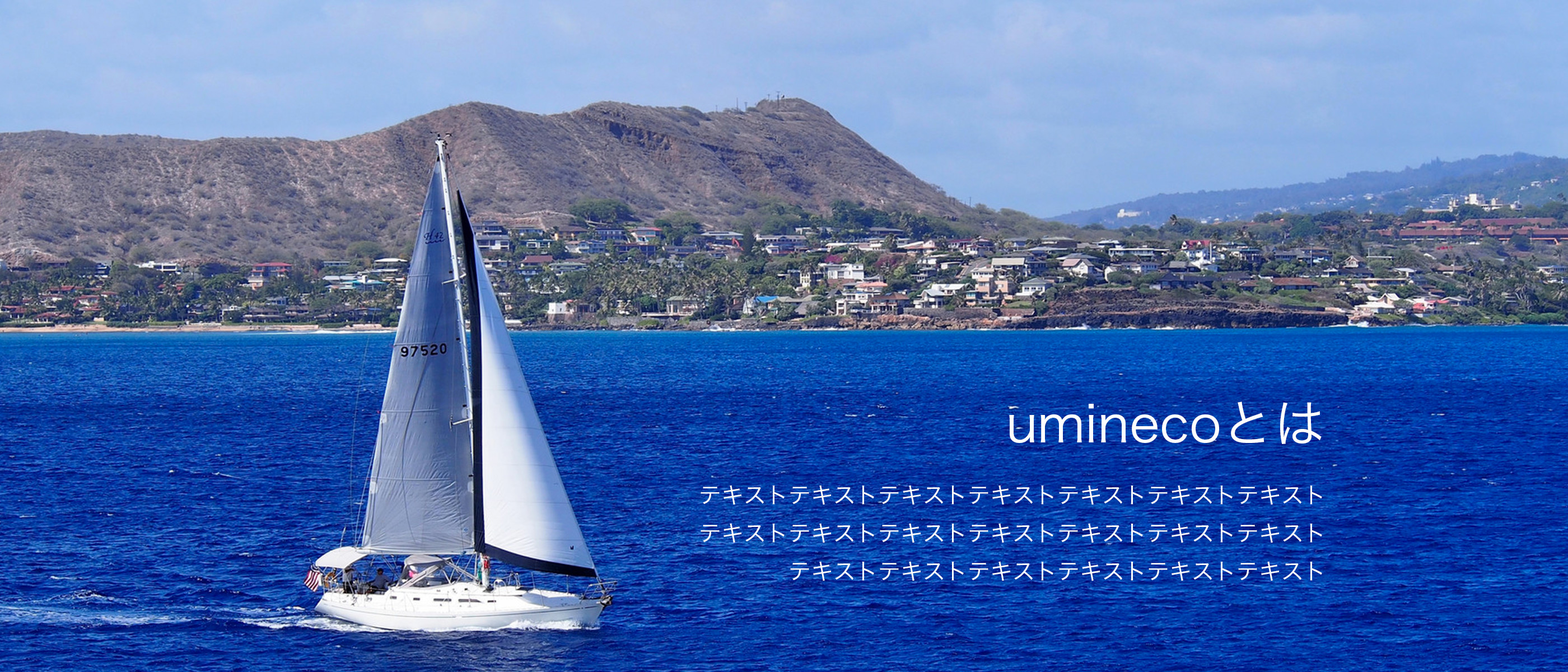
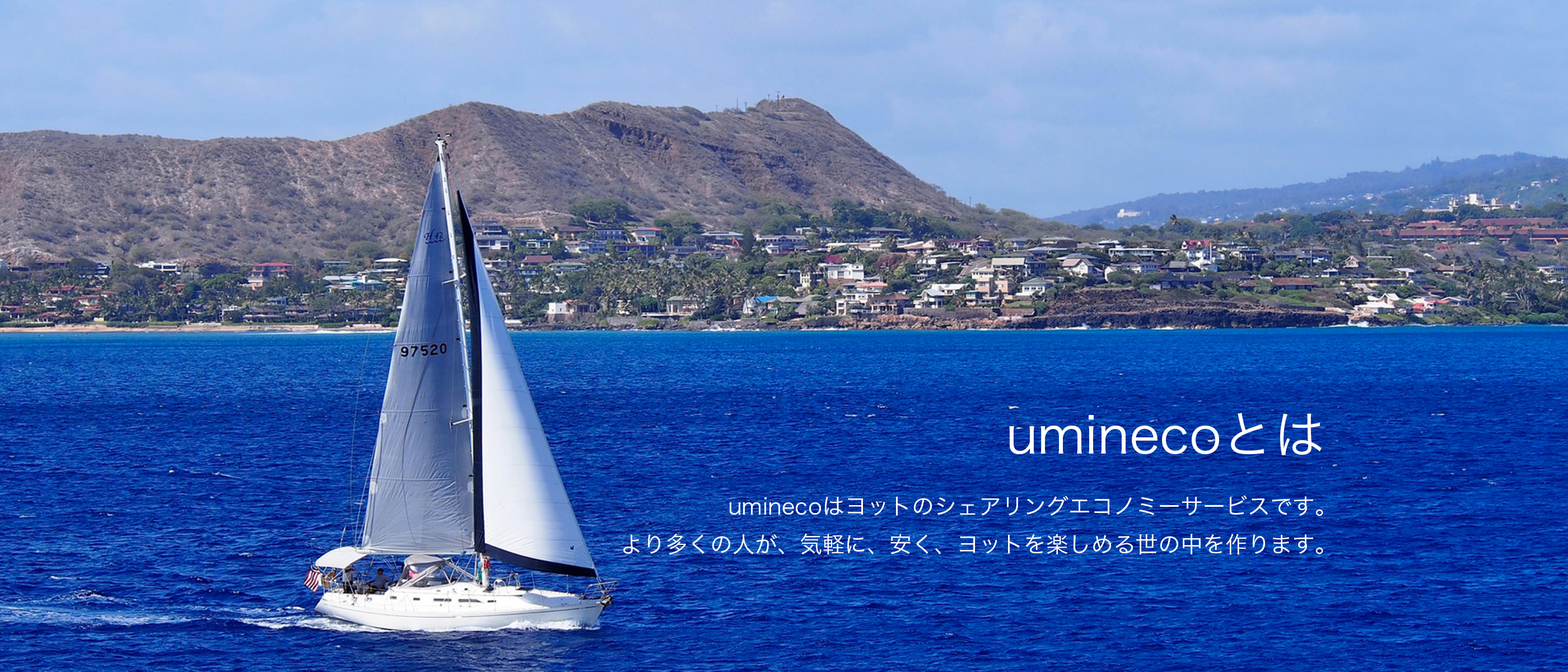
aboutページテキスト流し込み

Changed region(s): [[0.4039, 0.7092, 0.8389, 0.8633], [0.6214, 0.5858, 0.8389, 0.6783]]

diff --git a/frontend/css/object/project/_sp_event.scss b/frontend/css/object/project/_sp_event.scss
@@ -1,6 +1,7 @@
 @charset "utf-8";
 
 .event {
+  position: relative;
   margin-top: 20px;
   padding-bottom: 50px;
 }

diff --git a/frontend/css/object/project/_sp_about.scss b/frontend/css/object/project/_sp_about.scss
@@ -30,6 +30,7 @@
 }
 
 .aboutTextBox {
+  @extend %font-12;
   margin: 20px 0;
   text-align: center;
 }
